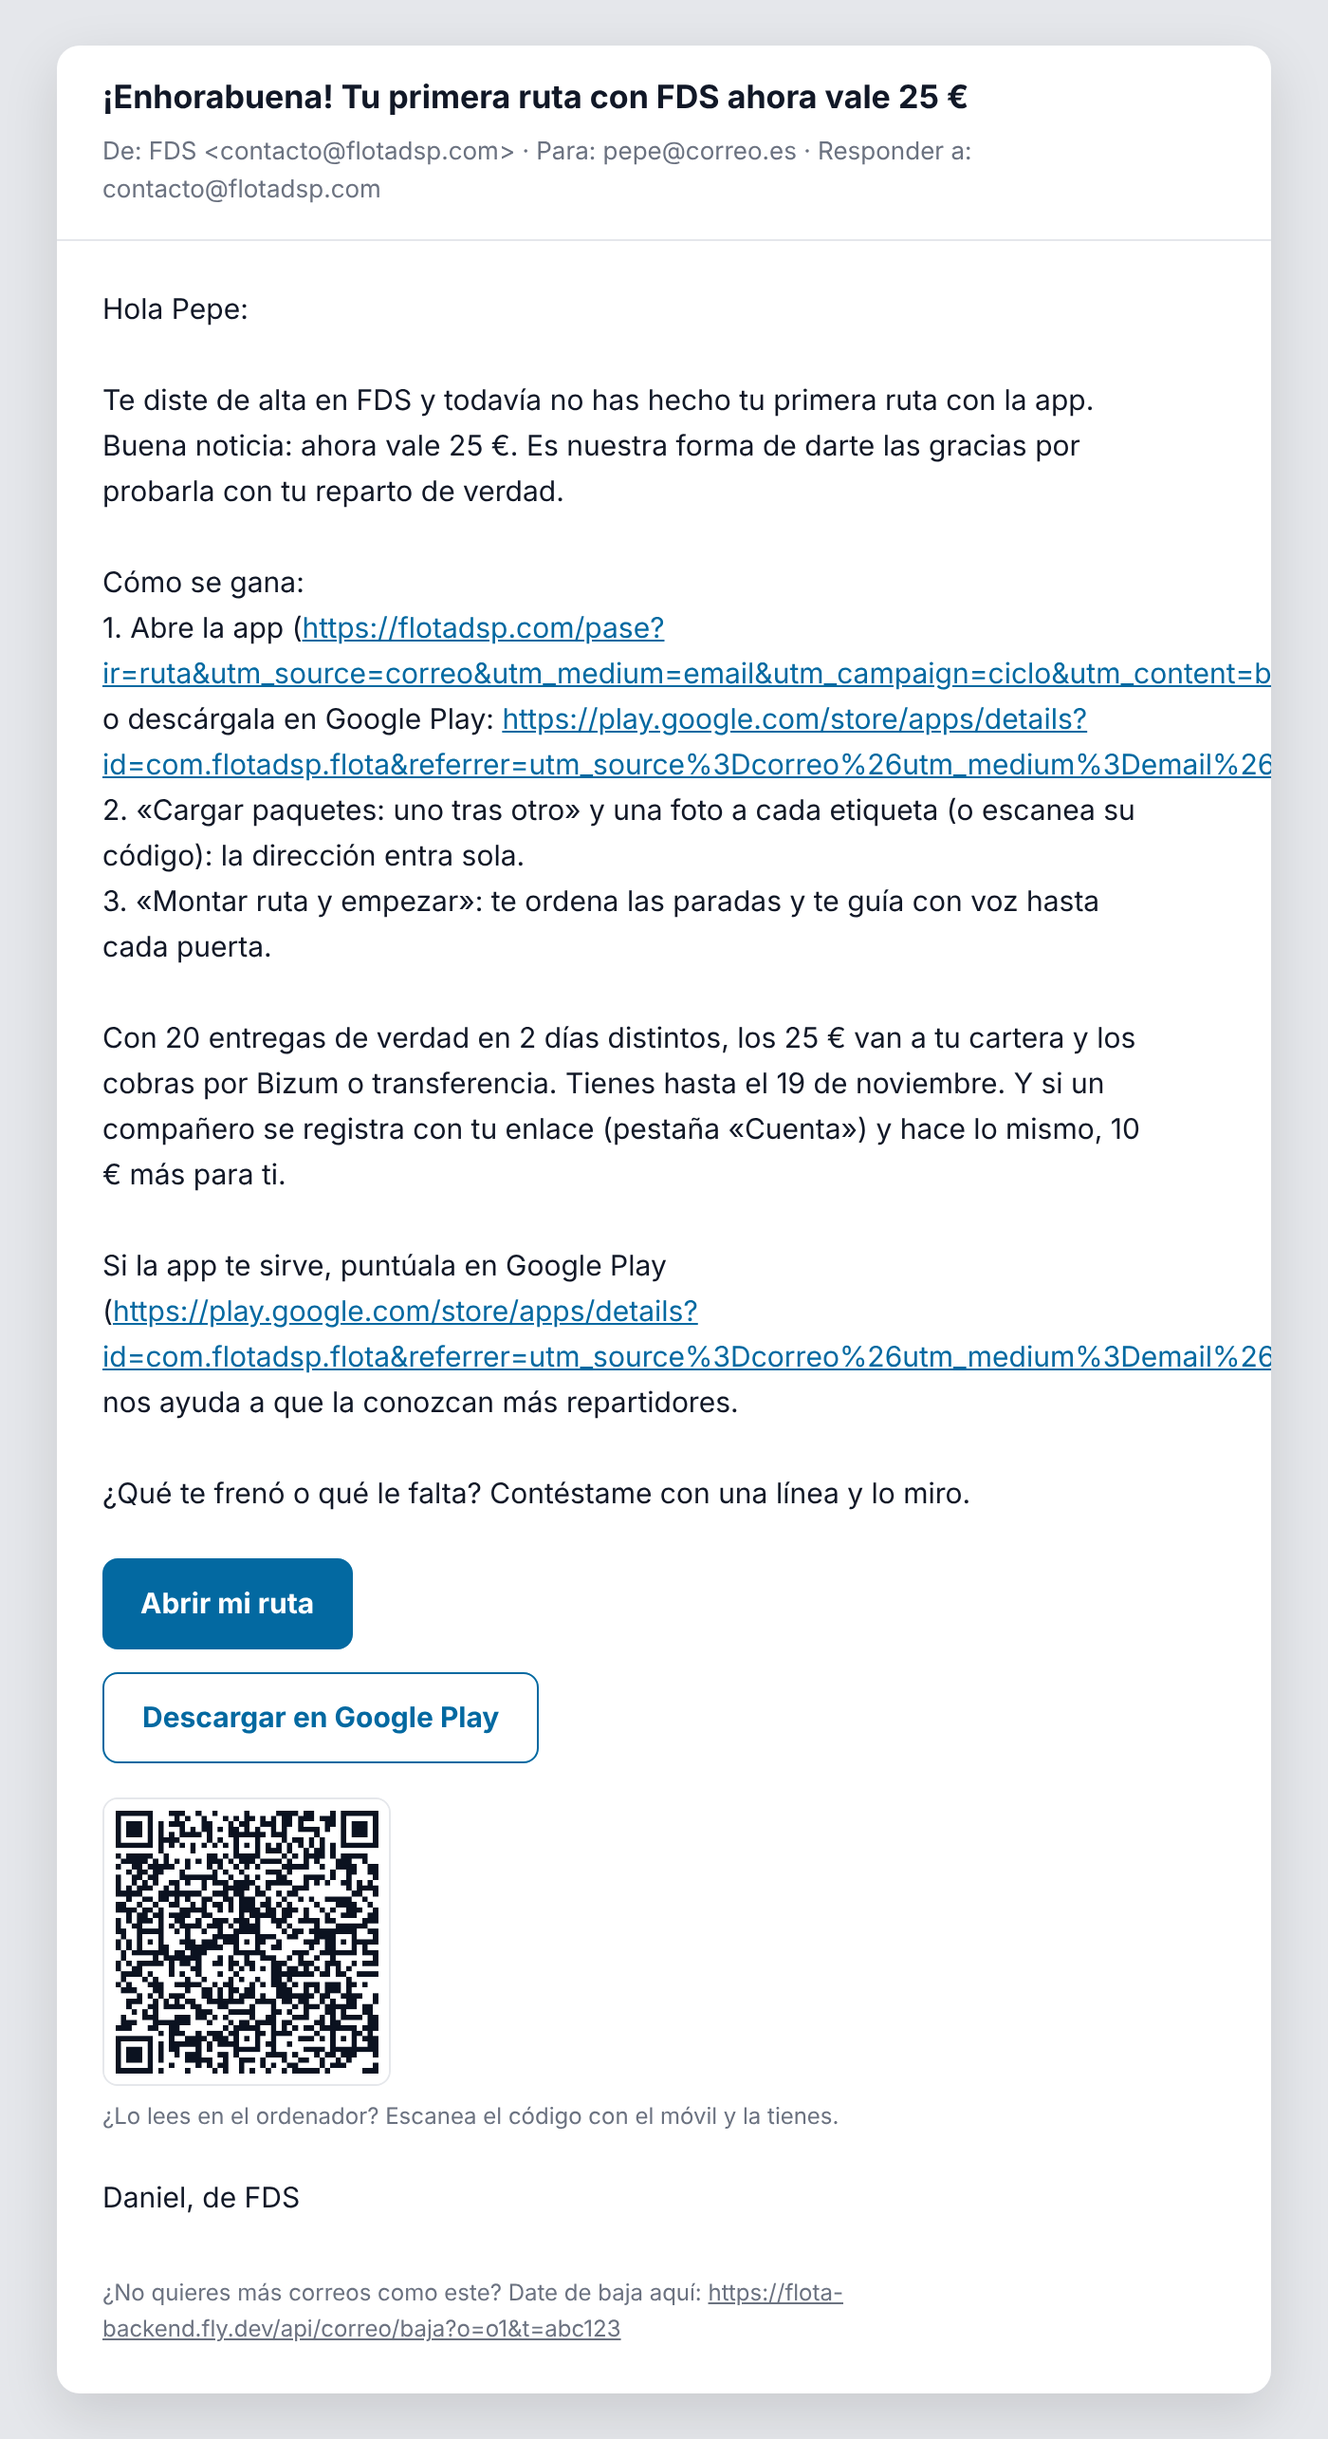
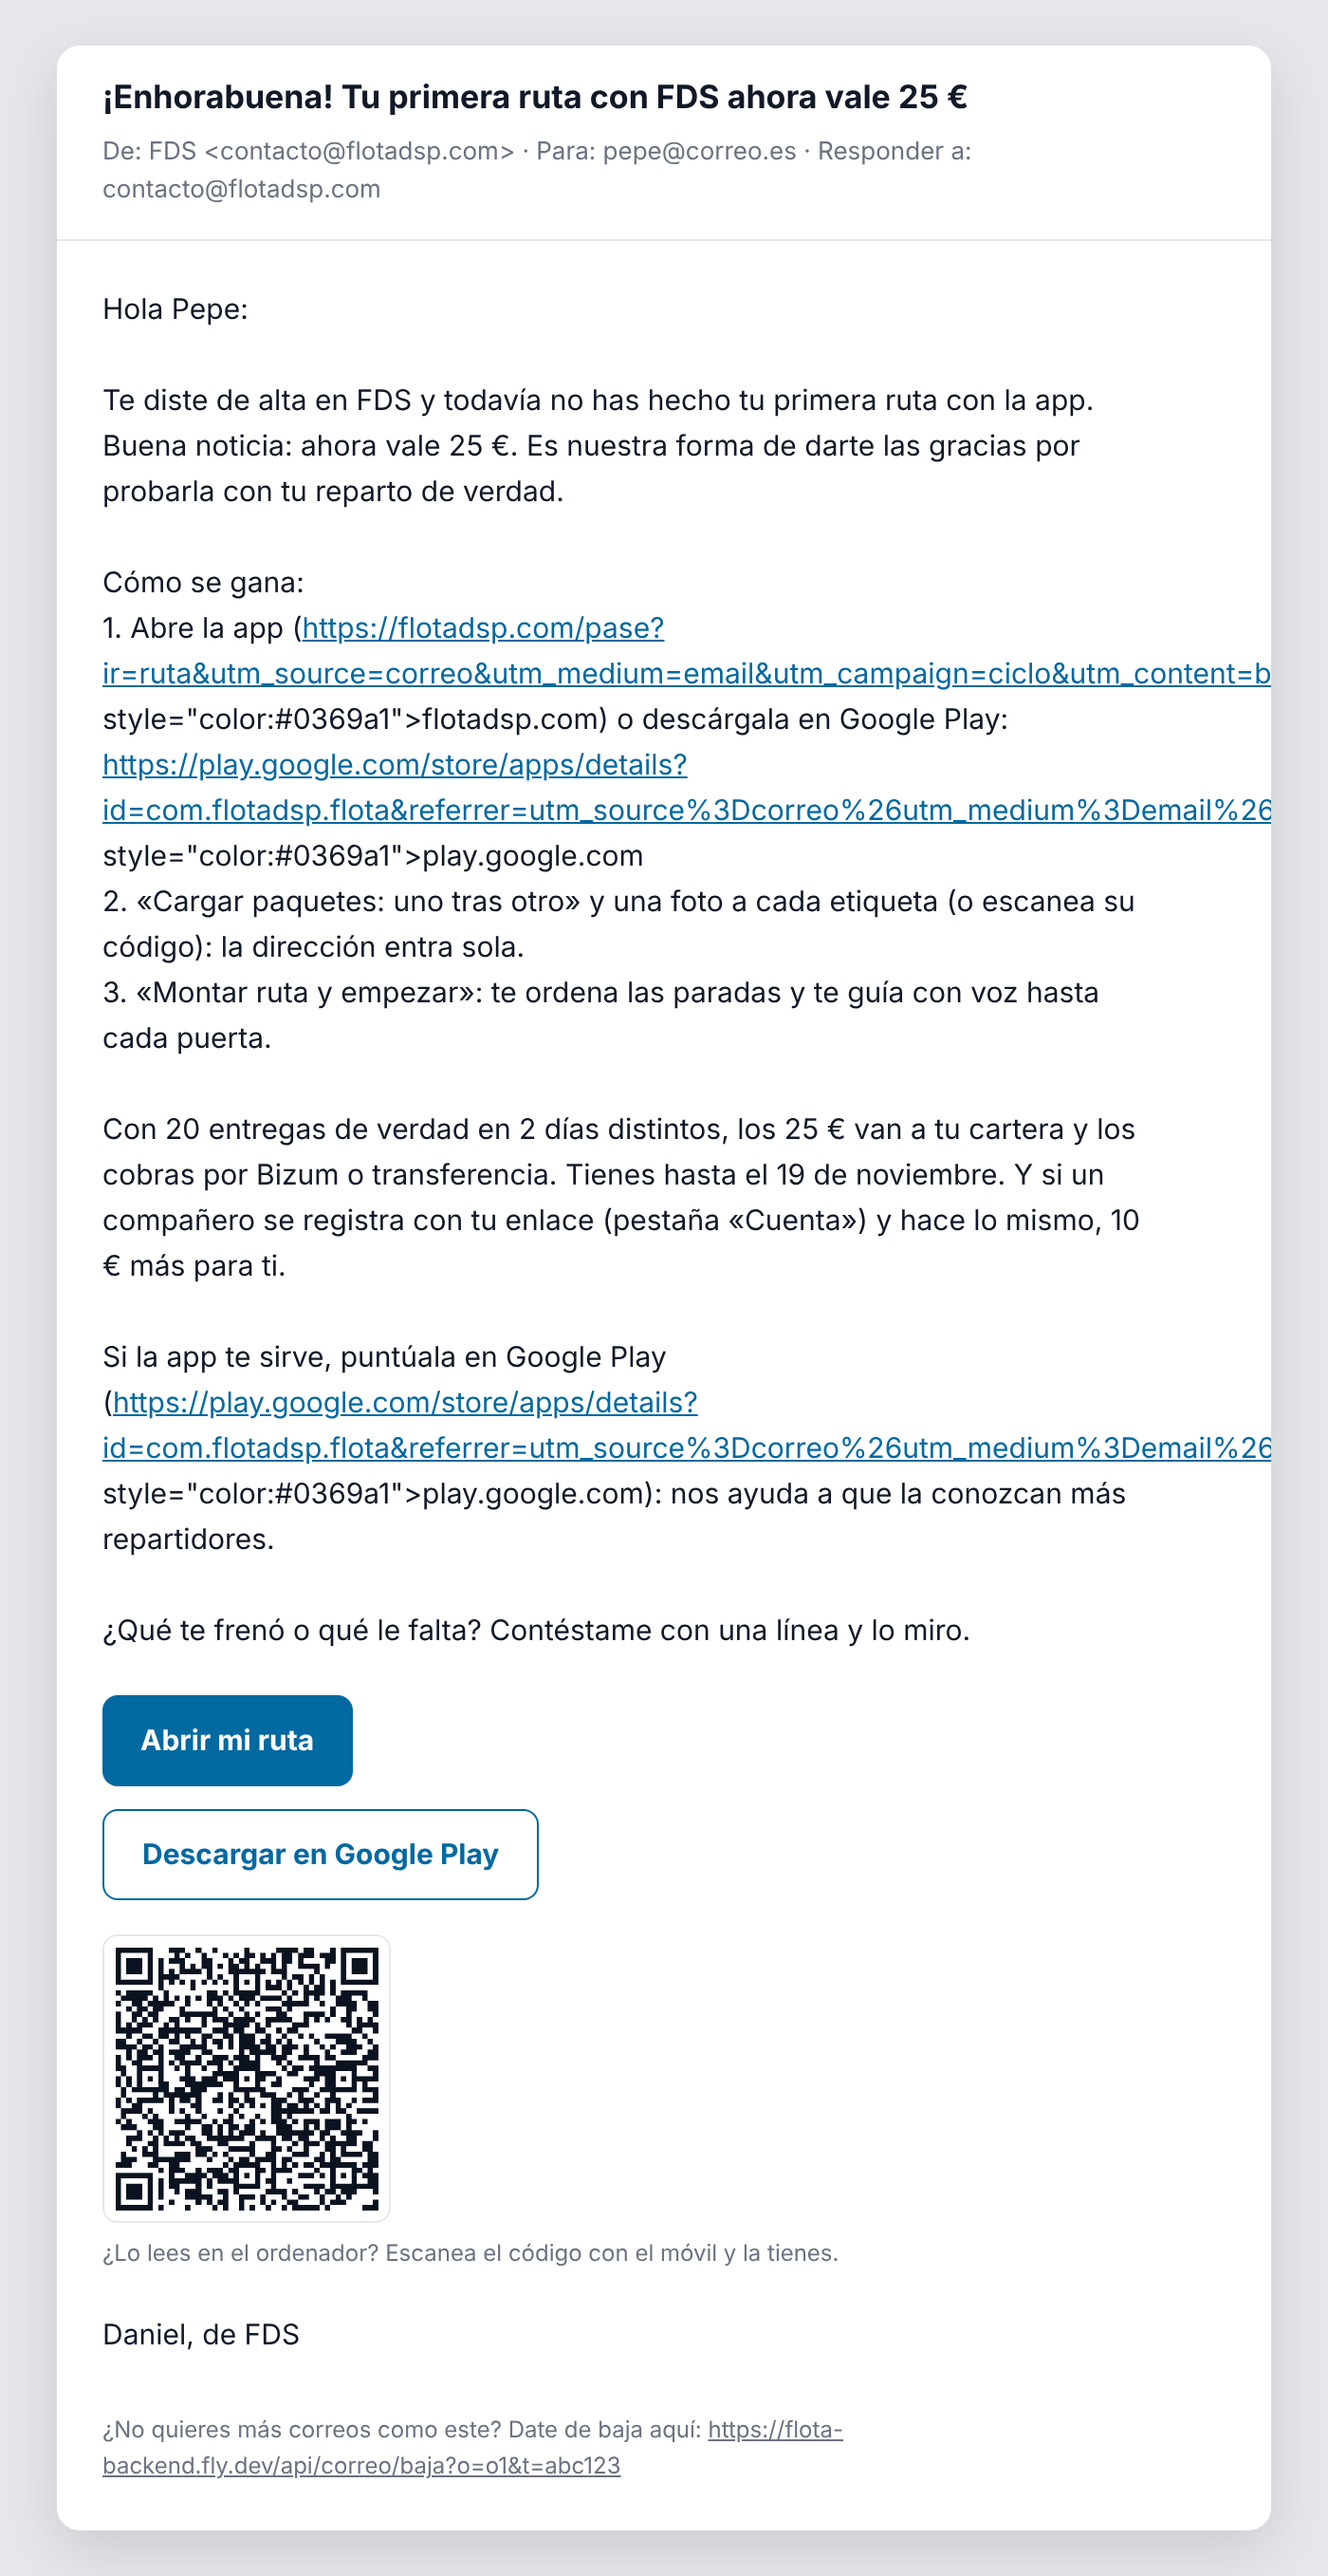
Correo bono25: en el HTML las dos direcciones largas se enseñan cortas (flotadsp.com, play.google.com)
Claude-Session: https://claude.ai/code/session_016pE6fjuoxye9W1VpRgVqbZ

Changed region(s): [[0.0614, 0.0311, 0.9521, 0.965], [0.3993, 0.8716, 0.43, 0.9027]]

diff --git a/backend/ciclo_correos.py b/backend/ciclo_correos.py
@@ -956,7 +956,13 @@ def _html_bono25(cuerpo, firma, boton, enlace, boton_play, play_url, qr_url, qr_
     def enlaces(texto, color):
         return re.sub(r"(https?://[^\s<]+)", r'<a href="\1" style="color:%s">\1</a>' % color, texto)
 
-    esc = enlaces(_html.escape(cuerpo), "#0369a1").replace("\n", "<br>")
+    # En el HTML las dos direcciones largas (el pase y Google Play) se enseñan cortas: el texto plano las lleva
+    # enteras, pero en pantalla una URL de 120 caracteres parte el párrafo (y Gmail la corta).
+    esc = _html.escape(cuerpo)
+    for url, corto in ((enlace, "flotadsp.com"), (play_url, "play.google.com")):
+        if url:
+            esc = esc.replace(_html.escape(url), f'<a href="{_html.escape(url)}" style="color:#0369a1">{corto}</a>')
+    esc = enlaces(esc, "#0369a1").replace("\n", "<br>")
     qr = ""
     if qr_url:
         qr = (f'<p style="margin:0 0 22px"><img src="{_html.escape(qr_url)}" width="150" height="150" alt="QR Google Play" '
